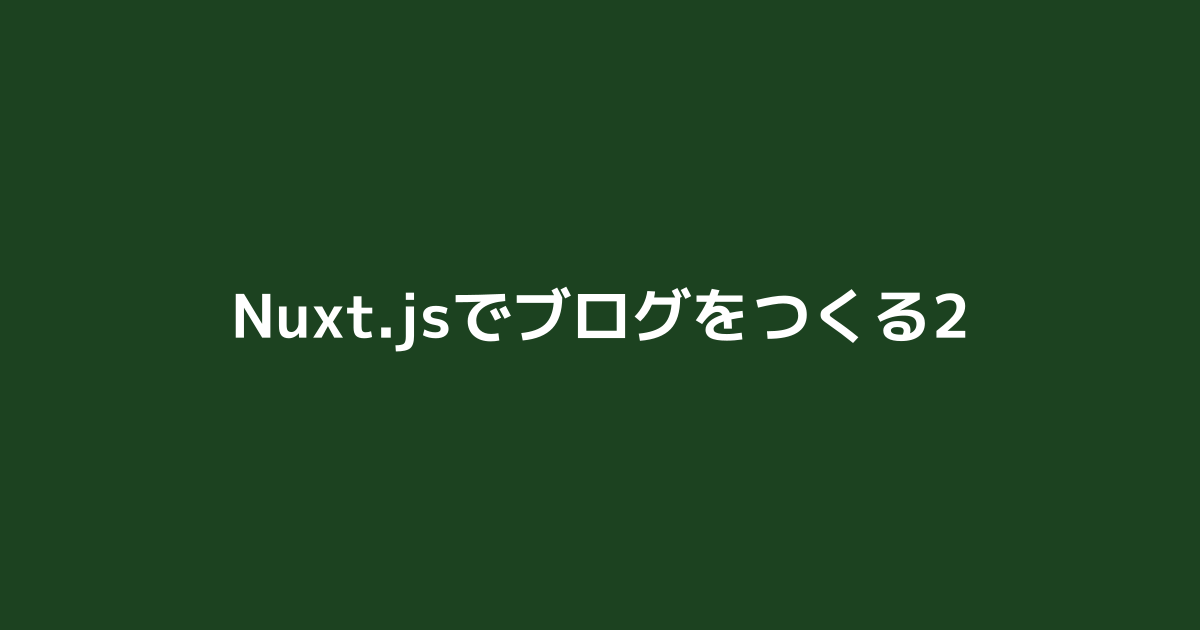
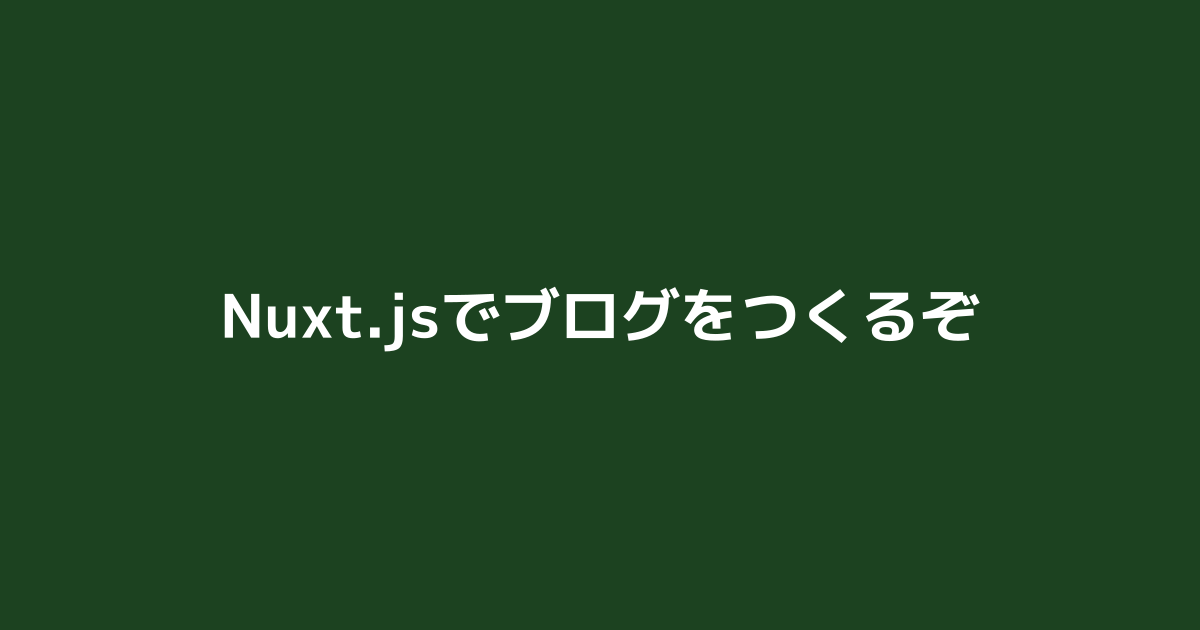
blogStyleの調整

Changed region(s): [[0.185, 0.4524, 0.8325, 0.573]]

diff --git a/pages/blogs/_date/_slug/index.vue b/pages/blogs/_date/_slug/index.vue
@@ -1,21 +1,25 @@
 <template>
-  <article class="content">
-      <h2>{{ title }}</h2>
-      <div>
-        <div v-for="tag in formatTags">
-          {{ tag }}
+  <main class="page_wrap">
+    <article class="blog">
+      <header class="blog_header">
+        <h2 class="blog_title">{{ title }}</h2>
+        <div class="blog_date">
+          <TagList class="blog_tags back-wite" :Tags="formatTags" />
+          <time>{{ params.date }}</time>
         </div>
-        <time>{{ params.date }}</time>
-      </div>
-      <div v-html="bodyHtml"></div>
-  </article>
+      </header>
+      <div class="blog_body" v-html="bodyHtml"></div>
+    </article>
+  </main>
 </template>
 
 <script>
 import { sourceFileArray } from '../../../../contents/blogs/summary.json'
+import TagList from "../../../../components/TagList";
+
 export default {
   components: {
-    
+    TagList
   },
   validate({ params }) {
     return sourceFileArray.includes(`contents/blogs/md/${params.date}_${params.slug}.md`)
@@ -27,6 +31,7 @@ export default {
     const title = this.title + " | kazuma-saito"
     const url = `${this.url}blogs/${this.params.date}/${this.params.slug}/`
     const desc = this.description || ''
+    const blogId = this.id
     return {
       title: title,
       meta: [
@@ -35,7 +40,7 @@ export default {
         { hid: 'og:type', property: 'og:type', content: 'article' },
         { hid: 'og:url', property: 'og:url', content: url },
         { hid: 'og:title', property: 'og:title', content: title },
-        { hid: 'og:image', property: 'og:image', content: 'https://ka-zu-ma.com/ogp/blog-' + this.params.id + '.png'
+        { hid: 'og:image', property: 'og:image', content: 'https://ka-zu-ma.com/ogp/blog-' + blogId + '.png'
         },
       ],
       link: [{ rel: 'canonical', href: url }]
@@ -51,3 +56,72 @@ export default {
   }
 }
 </script>
+
+<style lang="scss" scoped>
+.blog {
+  &_header {
+    color: #fff;
+    margin-bottom: 1rem;
+  }
+  &_title {
+    font-size: 2rem;
+  }
+  &_date {
+    display: flex;
+  }
+  &_tags {
+    flex: 1;
+  }
+
+  &_body {
+    background-color: #fff;
+    border-radius: 0.2rem;
+    padding: 0.8rem;
+
+    /deep/ {
+      * {
+        line-height: 1.5;
+      }
+      h1,
+      h2,
+      h3,
+      h4,
+      h5,
+      h6 {
+        margin: 0.4rem 0 0.6rem;
+      }
+
+      ul,
+      ol {
+        margin: 0.4rem 0.4rem 0.6rem;
+        padding-left: 1.4rem;
+      }
+
+      hr {
+        border: d 1px $colour_main_green;
+        margin-top: 0.8rem;
+        margin-bottom: 0.8rem;
+      }
+      blockquote {
+        margin-left: 0.4rem;
+        border-left: solid 0.4rem $colour_main_green;
+        padding: 0.4rem;
+        background-color: rgba($colour_main_green, 0.2);
+      }
+      table {
+        border: solid 1px $colour_main_green;
+        border-spacing: 0;
+        th {
+          padding: 0.4rem;
+          background-color: rgba($colour_main_green, 0.2);
+          border: solid 1px $colour_main_green;
+        }
+        td {
+          padding: 0.4rem;
+          border: solid 1px $colour_main_green;
+        }
+      }
+    }
+  }
+}
+</style>

diff --git a/components/TagList.vue b/components/TagList.vue
@@ -1,8 +1,6 @@
 <template>
   <ul class="tagList">
-    <li class="tagList_item" v-for="tag in Tags">
-      {{ tag }}
-    </li>
+    <li class="tagList_item" v-for="tag in Tags">{{ tag }}</li>
   </ul>
 </template>
 
@@ -14,16 +12,23 @@ export default {
 </script>
 
 <style lang="scss" scoped>
-.tagList{
+.tagList {
   display: flex;
   list-style: none;
-  &_item{
-    font-size: .8rem;
-    padding: .2rem .4rem;
+  &_item {
+    font-size: 0.8rem;
+    padding: 0.2rem 0.4rem;
     background-color: $colour_main_green;
     color: whitesmoke;
-    margin-right: .4rem;
-    border-radius: .2rem;
+    margin-right: 0.4rem;
+    border-radius: 0.2rem;
+  }
+}
+
+.back-wite {
+  & .tagList_item {
+    background-color: white;
+    color: $colour_main_green;
   }
 }
 </style>

diff --git a/layouts/default.vue b/layouts/default.vue
@@ -36,6 +36,7 @@ export default {
       max-width: 56rem;
       margin: 0 auto;
       box-sizing: border-box;
+      padding: 0.8rem 1rem;
     }
   }
 }

diff --git a/contents/blogs/md/2020-05-06_test.md b/contents/blogs/md/2020-05-06_test.md
@@ -1,6 +1,6 @@
 ---
 id: 1
-title: Nuxt.jsでブログをつくる
+title: Nuxt.jsでブログをつくるぞ
 created_at: 2019/01/01
 updated_at: 2019/01/01
 draft: false
@@ -9,9 +9,84 @@ tags: JavaScript,Nuxt.js
 thumbnail: "default.png"
 ---
 
+# 見出し 1
+
 ## 見出し 2
 
-本文です。
+### 見出し 3
+
+#### 見出し 4
+
+##### 見出し 5
+
+###### 見出し 6
+
+---
+
+- リスト 1
+  - ネスト リスト 1_1
+    - ネスト リスト 1_1_1
+    - ネスト リスト 1_1_2
+  - ネスト リスト 1_2
+- リスト 2
+- リスト 3
+
+---
+
+1. 番号付きリスト 1
+   1. 番号付きリスト 1_1
+   1. 番号付きリスト 1_2
+1. 番号付きリスト 2
+1. 番号付きリスト 3
+
+---
+
+> お世話になります。xxx です。
+>
+> ご連絡いただいた、バグの件ですが、仕様です。
+
+> お世話になります。xxx です。
+>
+> ご連絡いただいた、バグの件ですが、仕様です。
+>
+> > お世話になります。 yyy です。
+> >
+> > あの新機能バグってるっすね
+
+---
+
+インストールコマンドは `gem install hoge` です
+
+---
+
+normal _italic_ normal
+normal _italic_ normal
+
+---
+
+normal **bold** normal
+normal **bold** normal
+
+---
+
+[Google 先生](https://www.google.co.jp/)
+
+---
+
+https://www.google.co.jp/
+
+---
+
+~~取り消し線~~
+
+---
+
+| header1    |     header2 |   header3    |
+| :--------- | ----------: | :----------: |
+| align left | align right | align center |
+| a          |           b |      c       |
+
+[return to 見出し 1](#menu)
 
 ```javascript
 const f = () => {};

diff --git a/contents/blogs/md/2020-05-06_test2.md b/contents/blogs/md/2020-05-06_test2.md
@@ -1,5 +1,5 @@
 ---
-id: 1
+id: 2
 title: Nuxt.jsでブログをつくる2
 created_at: 2019/01/01
 updated_at: 2019/01/01
